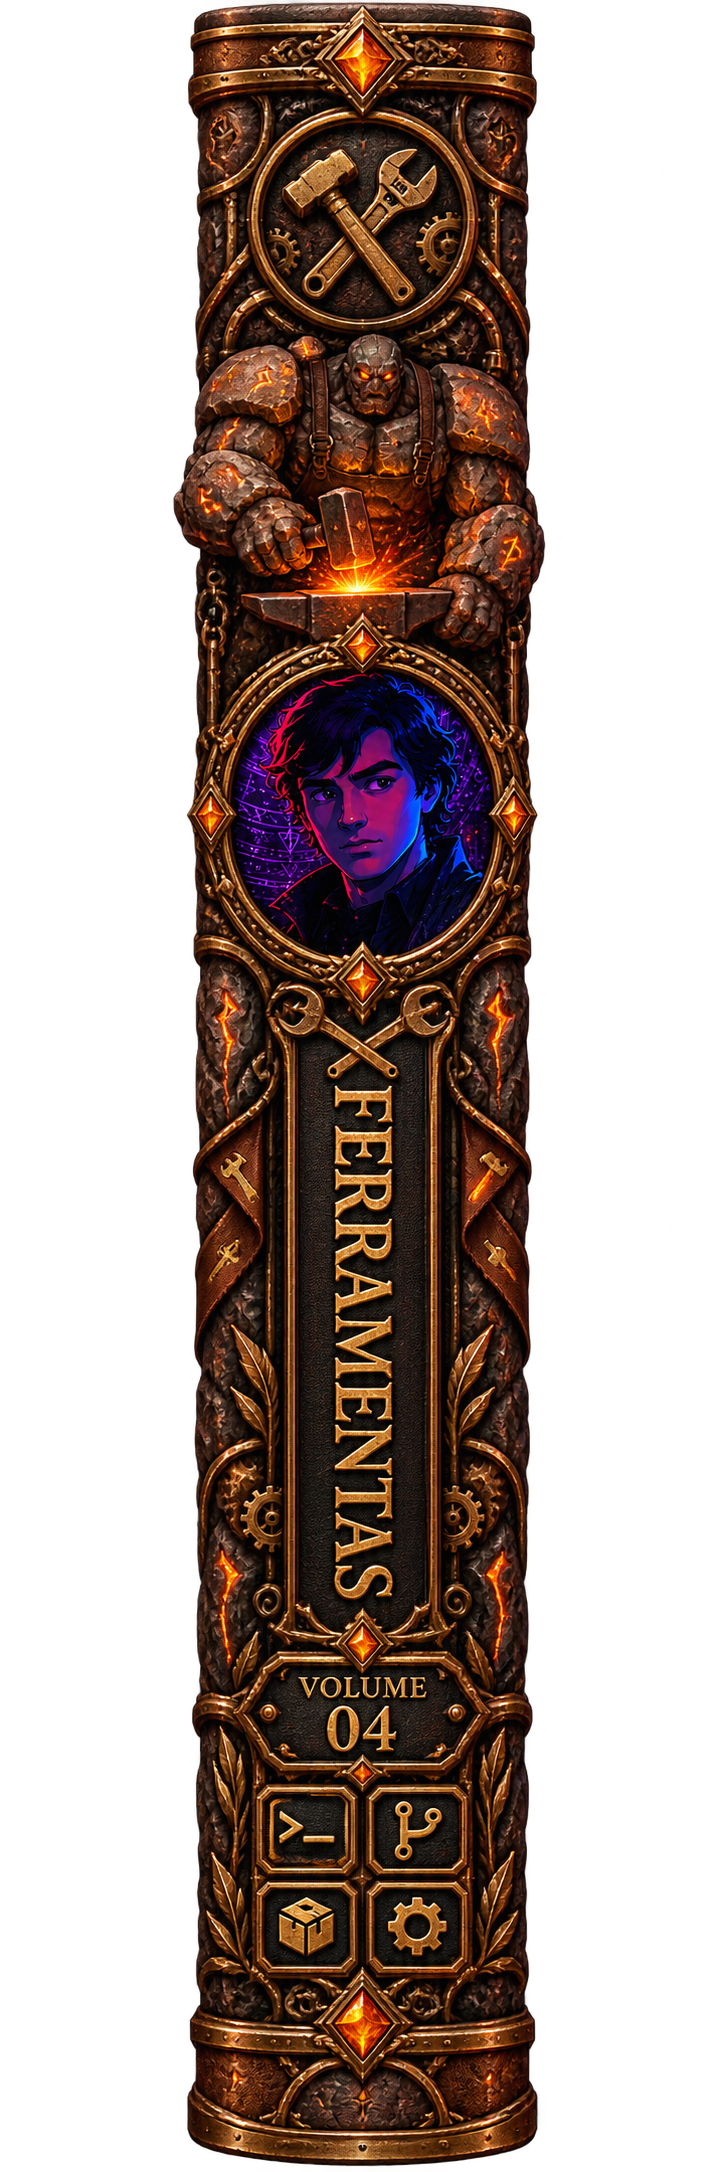
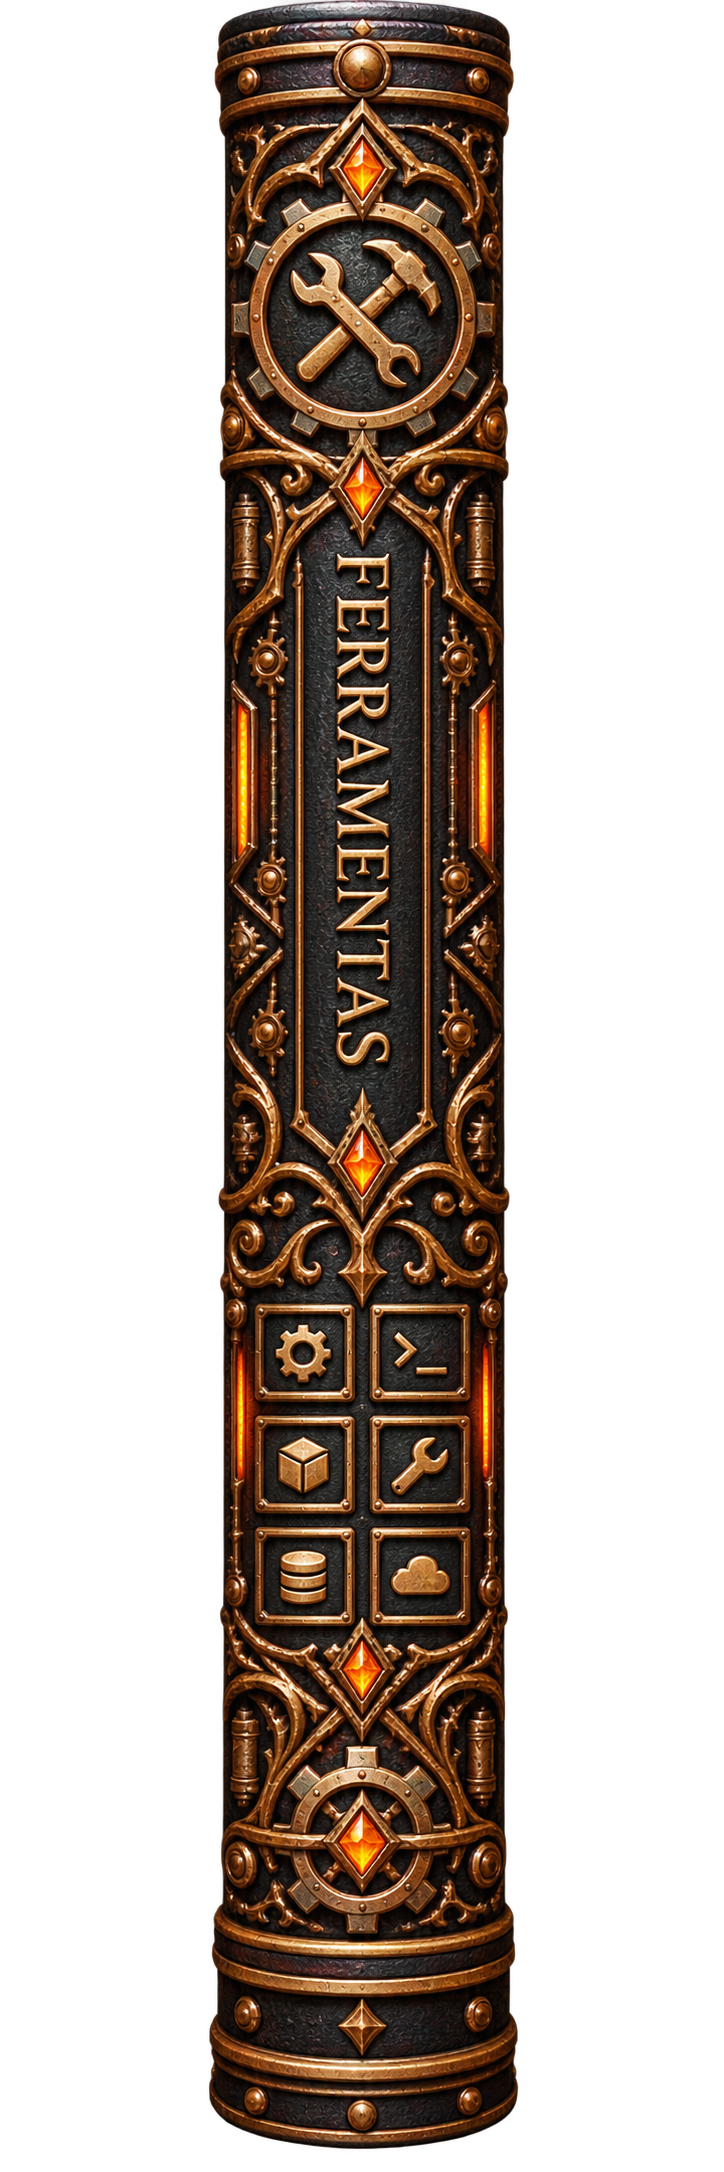
feat adicionando o livro full-stack e refinando a estante de grimórios
Novas artes das capas (front, back, dados, ferramentas, fullstack) e ajustes
visuais na spell-library; seção Sobre reescrita como author-section.

diff --git a/assets/css/about-author.css b/assets/css/about-author.css
@@ -1,0 +1,108 @@
+/* Composição editorial exclusiva de Sobre; preserva os links para #sobre-mim. */
+.author-transition,
+#sobre-mim.author-section { --author-background: #09070d; }
+.author-transition {
+  --transition-height: clamp(180px, 16vw, 240px);
+  position: relative;
+  z-index: 1;
+  height: var(--transition-height);
+  margin-top: calc(-1 * var(--transition-height));
+  pointer-events: none;
+  background:
+    linear-gradient(to bottom, transparent 0%, rgba(9, 7, 13, .2) 25%, rgba(9, 7, 13, .7) 65%, var(--author-background) 100%),
+    radial-gradient(ellipse at 27% 65%, rgba(86, 68, 142, .05), transparent 65%);
+}
+#sobre-mim.author-section {
+  --author-gold: #c8a663;
+  --author-ink: #d7d1cb;
+  padding: clamp(6.25rem, 9vw, 9rem) clamp(1.25rem, 4vw, 4rem);
+  background: var(--author-background);
+  color: var(--author-ink);
+  scroll-margin-top: 5rem;
+}
+.author-composition {
+  width: min(1280px, 100%);
+  margin-inline: auto;
+  display: grid;
+  grid-template-columns: minmax(0, 1.08fr) minmax(0, 1fr);
+  grid-template-rows: auto auto;
+  column-gap: clamp(2rem, 5vw, 5rem);
+  align-items: start;
+}
+.author-heading { grid-column: 2; grid-row: 1; padding-top: 1rem; }
+.author-chapter {
+  display: block;
+  margin-bottom: 1.1rem;
+  color: var(--author-gold);
+  font: 700 .7rem/1.5 Cinzel, serif;
+  letter-spacing: .3em;
+  text-transform: uppercase;
+}
+.author-heading h2 {
+  margin: 0;
+  color: #d9bd78;
+  font: 700 clamp(1.8rem, 3vw, 2.8rem)/1.2 Cinzel, serif;
+  letter-spacing: .06em;
+  text-transform: uppercase;
+}
+.author-ornament { display: flex; align-items: center; gap: .75rem; margin: 1.35rem 0 2rem; color: var(--author-gold); font-size: .8rem; opacity: .65; }
+.author-ornament span { width: 4.5rem; height: 1px; background: currentColor; }
+.author-ornament span:last-child { width: 2rem; }
+.author-art { grid-column: 1; grid-row: 1 / 3; align-self: center; min-width: 0; margin: 0; position: relative; }
+.author-art-blend {
+  overflow: hidden;
+  -webkit-mask-image: radial-gradient(ellipse at 50% 47%, #000 42%, rgba(0,0,0,.9) 58%, transparent 74%);
+  mask-image: radial-gradient(ellipse at 50% 47%, #000 42%, rgba(0,0,0,.9) 58%, transparent 74%);
+}
+.author-art img { display: block; width: 100%; height: auto; object-fit: contain; }
+.author-art-motion { transform: none; }
+@media (min-width: 901px) and (hover: hover) and (pointer: fine) and (prefers-reduced-motion: no-preference) {
+  .author-art-motion {
+    transform: translate3d(var(--parallax-x, 0px), var(--parallax-y, 0px), 0) scale(var(--parallax-scale, 1));
+    transition: transform 550ms ease-out, filter 350ms ease;
+  }
+  .author-art-blend.is-parallax-active { --parallax-scale: 1.012; }
+  .author-art-blend.is-parallax-active .author-art-motion {
+    filter: brightness(1.02);
+    transition-duration: 250ms, 350ms;
+  }
+}
+.author-art figcaption {
+  position: relative;
+  padding-left: 3rem;
+  margin: 1.35rem 0 0 8%;
+  color: #bda371;
+  font: 700 .72rem/1.8 Cinzel, serif;
+  letter-spacing: .17em;
+  text-transform: uppercase;
+}
+.author-art figcaption > span { position: absolute; left: 0; top: .6rem; width: 2rem; height: 1px; background: currentColor; opacity: .6; }
+.author-copy { grid-column: 2; grid-row: 2; min-width: 0; max-width: 65ch; }
+.author-copy p { margin: 0 0 1.3rem; font: 400 clamp(.98rem, 1.15vw, 1.08rem)/1.8 Lora, serif; color: var(--author-ink); }
+.author-journey { display: inline-flex; align-items: center; gap: 1rem; margin-top: 1.15rem; padding-block: .65rem; color: #d1c1a2; font: 400 .95rem/1.5 Lora, serif; text-decoration: none; transition: color 300ms ease; }
+.author-arrow { position: relative; width: 2rem; height: 1px; background: currentColor; transition: width 300ms ease, transform 300ms ease; }
+.author-arrow::after { content: ''; position: absolute; right: 0; top: -3px; width: 7px; height: 7px; border-top: 1px solid; border-right: 1px solid; transform: rotate(45deg); }
+.author-journey:hover { color: var(--author-gold); }
+.author-journey:hover .author-arrow { width: 2.5rem; transform: translateX(4px); }
+.author-journey:focus-visible { outline: 2px solid var(--author-gold); outline-offset: 6px; }
+@media (prefers-reduced-motion: no-preference) {
+  .author-section.is-entering [data-author-reveal] { opacity: 0; transform: translateY(15px); }
+  .author-section.is-entering .author-art { transform: translateX(-20px); }
+  .author-section [data-author-reveal] { transition: opacity 550ms ease, transform 550ms ease; }
+  .author-heading { transition-delay: 60ms !important; }
+  .author-copy { transition-delay: 120ms !important; }
+}
+@media (max-width: 900px) {
+  .author-transition { --transition-height: clamp(120px, 20vw, 170px); }
+  #sobre-mim.author-section { padding-block: 5rem; }
+  .author-composition { width: min(640px, 100%); grid-template-columns: minmax(0, 1fr); gap: 0; }
+  .author-heading { grid-column: 1; grid-row: 1; padding: 0; }
+  .author-art { grid-column: 1; grid-row: 2; margin: .25rem -0.5rem 2.75rem; }
+  .author-copy { grid-column: 1; grid-row: 3; }
+  .author-art figcaption { margin-top: .75rem; }
+  .author-heading h2 { font-size: clamp(1.8rem, 5vw, 2.5rem); }
+  .author-ornament { margin-bottom: 1rem; }
+}
+@media (prefers-reduced-motion: reduce) {
+  .author-section [data-author-reveal], .author-art img, .author-art-motion, .author-journey, .author-arrow { opacity: 1; transform: none !important; transition: none !important; animation: none !important; }
+}

diff --git a/index.html b/index.html
@@ -14,6 +14,7 @@
     rel="stylesheet">
   <link rel="stylesheet" href="assets/css/animacoes.css">
   <link rel="stylesheet" href="assets/css/legacy-book.css">
+  <link rel="stylesheet" href="assets/css/about-author.css">
 </head>
 
 <body>
@@ -81,59 +82,34 @@
 
   </section>
   
-  <!-- Sessão Sobre o Personagem -->
-  <section id="sobre-mim" class="about-chapter" aria-labelledby="about-title">
-    <div class="about-aura" aria-hidden="true"></div>
-    <div class="about-container">
-      <header class="about-heading">
-        <span class="about-chapter-label">Capítulo I</span>
-        <h2 id="about-title">Sobre o Personagem</h2>
-        <p>Conheça o dev por trás da magia.</p>
+  <!-- Sobre: o autor por trás dos legados -->
+  <div class="author-transition" aria-hidden="true"></div>
+  <section id="sobre-mim" class="author-section" aria-labelledby="about-title">
+    <div class="author-composition">
+      <header class="author-heading" data-author-reveal>
+        <span class="author-chapter">Capítulo I</span>
+        <h2 id="about-title">Minha Origem</h2>
+        <div class="author-ornament" aria-hidden="true"><span></span>◇<span></span></div>
       </header>
-
-      <div class="about-story">
-        <figure class="about-portrait">
-          <img src="assets/img/user/foto_perfil.png" alt="Retrato de Marcos Simões">
-          <span class="portrait-caption">O homem por trás do grimório</span>
-        </figure>
-
-        <article class="about-narrative">
-          <h3>Minha Origem</h3>
-          <div class="narrative-divider" aria-hidden="true"><span></span></div>
-          <p>Minha jornada começou pela curiosidade de entender como ideias poderiam se transformar em experiências digitais.</p>
-          <p>Com o tempo, projetos, ensino e liderança passaram a fazer parte desse caminho — conectando criação, troca de conhecimento e a busca constante por novos desafios.</p>
-        </article>
-      </div>
-
-      <div class="about-motivation">
-        <div class="motivation-heading"><span></span><h3>O que move a jornada</h3><span></span></div>
-        <div class="motivation-grid">
-          <article class="motivation-item"><span class="pillar-number">01</span><span class="pillar-rune" aria-hidden="true">◆</span><h4>Criar</h4><i></i><p>Transformar ideias em interfaces e experiências que realmente ganham vida.</p></article>
-          <article class="motivation-item"><span class="pillar-number">02</span><span class="pillar-rune" aria-hidden="true">◆</span><h4>Compartilhar</h4><i></i><p>Ensinar aquilo que aprendo e crescer através da troca com outras pessoas.</p></article>
-          <article class="motivation-item"><span class="pillar-number">03</span><span class="pillar-rune" aria-hidden="true">◆</span><h4>Evoluir</h4><i></i><p>Buscar desafios que me tirem do confortável e ampliem aquilo que sou capaz de construir.</p></article>
+      <figure class="author-art" data-author-reveal>
+        <!-- Arte local provisória. Nova arte: assets/about/about-author.webp (ver assets/about/README.md). -->
+        <div class="author-art-blend" data-author-parallax>
+          <div class="author-art-motion">
+          <img src="assets/img/user/foto_perfil.png"
+            alt="Ilustração do desenvolvedor com notebook em um ambiente inspirado em um grimório"
+            width="1672" height="941" loading="lazy" decoding="async">
+          </div>
         </div>
+        <figcaption><span aria-hidden="true"></span>O autor por trás<br>dos legados</figcaption>
+      </figure>
+      <div class="author-copy" data-author-reveal>
+        <p>Sempre fui movido pela curiosidade de entender como as coisas funcionam — e, principalmente, como poderiam funcionar melhor.</p>
+        <p>Hoje transformo essa curiosidade em interfaces e experiências digitais, unindo desenvolvimento Front-End, design e a bagagem que construí trabalhando com projetos, ensino e liderança.</p>
+        <p>Este portfólio é o reflexo dessa mistura entre código, criação e visão de produto.</p>
+        <a class="author-journey" href="#jornada">Explorar minha jornada<span class="author-arrow" aria-hidden="true"></span></a>
       </div>
-
-      <div class="traveler-traits" aria-labelledby="traits-title">
-        <div class="motivation-heading"><span></span><h3 id="traits-title">Traços do Viajante</h3><span></span></div>
-        <ul>
-          <li><span aria-hidden="true">◇</span>Curiosidade</li>
-          <li><span aria-hidden="true">◇</span>Criatividade</li>
-          <li><span aria-hidden="true">◇</span>Liderança</li>
-          <li><span aria-hidden="true">◇</span>Aprendizado</li>
-        </ul>
-      </div>
-
-      <a class="journey-marker" href="#legados" aria-label="Ir para o Salão dos Legados">
-        <span class="journey-gem" aria-hidden="true">◇</span>
-        <i aria-hidden="true"></i>
-        <strong>Início da<br>Jornada</strong>
-        <i aria-hidden="true"></i>
-        <span class="journey-arrow" aria-hidden="true">▼</span>
-      </a>
     </div>
   </section>
-
   <!-- Conteúdo anterior preservado, fora da apresentação -->
   <section class="sobre-legado" hidden aria-hidden="true">
 
@@ -643,6 +619,7 @@
     <script src="assets/js/data/legacyProjects.js"></script>
     <script src="assets/js/legacy/legacyBook.js"></script>
     <script src="assets/js/script.js"></script>
+    <script src="assets/js/about-author.js"></script>
 
 </body>
 

diff --git a/assets/js/about-author.js b/assets/js/about-author.js
@@ -1,0 +1,74 @@
+// Aprimoramento progressivo: sem JavaScript, a seção permanece visível.
+(() => {
+  const section = document.querySelector('.author-section');
+  const reducedMotion = window.matchMedia('(prefers-reduced-motion: reduce)');
+  if (!section || reducedMotion.matches || !('IntersectionObserver' in window)) return;
+  const observer = new IntersectionObserver(entries => {
+    if (!entries.some(entry => entry.isIntersecting)) return;
+    section.classList.remove('is-entering');
+    observer.disconnect();
+  }, { threshold: 0.12 });
+  section.classList.add('is-entering');
+  observer.observe(section);
+  reducedMotion.addEventListener('change', event => {
+    if (!event.matches) return;
+    section.classList.remove('is-entering');
+    observer.disconnect();
+  });
+})();
+
+// A máscara fica imóvel; o wrapper interno pode receber camadas no futuro.
+(() => {
+  const viewport = document.querySelector('[data-author-parallax]');
+  if (!viewport) return;
+  const enabled = window.matchMedia('(min-width: 901px) and (hover: hover) and (pointer: fine) and (prefers-reduced-motion: no-preference)');
+  const maxOffset = 5;
+  let listeners;
+  let bounds;
+  let frame = 0;
+  let x = 0;
+  let y = 0;
+
+  function reset() {
+    cancelAnimationFrame(frame);
+    frame = 0;
+    bounds = null;
+    viewport.classList.remove('is-parallax-active');
+    viewport.style.removeProperty('--parallax-x');
+    viewport.style.removeProperty('--parallax-y');
+  }
+
+  function move(event) {
+    if (event.pointerType !== 'mouse') return;
+    bounds ||= viewport.getBoundingClientRect();
+    if (!bounds.width || !bounds.height) return;
+    const normalize = value => Math.max(-1, Math.min(1, value));
+    x = normalize((event.clientX - bounds.left) / bounds.width * 2 - 1);
+    y = normalize((event.clientY - bounds.top) / bounds.height * 2 - 1);
+    viewport.classList.add('is-parallax-active');
+    if (frame) return;
+    frame = requestAnimationFrame(() => {
+      viewport.style.setProperty('--parallax-x', `${(x * maxOffset).toFixed(2)}px`);
+      viewport.style.setProperty('--parallax-y', `${(y * maxOffset).toFixed(2)}px`);
+      frame = 0;
+    });
+  }
+
+  function configure() {
+    listeners?.abort();
+    reset();
+    if (!enabled.matches) return;
+    listeners = new AbortController();
+    const options = { signal: listeners.signal, passive: true };
+    viewport.addEventListener('pointerenter', move, options);
+    viewport.addEventListener('pointermove', move, options);
+    viewport.addEventListener('pointerleave', reset, options);
+    viewport.addEventListener('pointercancel', reset, options);
+    window.addEventListener('scroll', reset, options);
+    window.addEventListener('resize', reset, options);
+    window.addEventListener('blur', reset, options);
+    document.addEventListener('visibilitychange', reset, options);
+  }
+  enabled.addEventListener('change', configure);
+  configure();
+})();

diff --git a/assets/js/script.js b/assets/js/script.js
@@ -1201,7 +1201,7 @@ let skillWheelLocked = false;
 
 function renderSpellShelf() {
   if (!spellShelf) return;
-  const coverByDomain = { 'front-end': 'front', 'back-end': 'back', data: 'dados', tools: 'ferramentas' };
+  const coverByDomain = { 'front-end': 'front', 'back-end': 'back', 'full-stack': 'fullstack', data: 'dados', tools: 'ferramentas' };
   // A ordem da estante é independente dos dados: Full-Stack permanece no trono central.
   const shelfDomains = ['front-end', 'back-end', 'full-stack', 'data', 'tools']
     .map(id => skillGroups[id]);
@@ -1210,7 +1210,6 @@ function renderSpellShelf() {
       ${coverByDomain[domain.id]
         ? `<img src="./assets/img/arcenal/${coverByDomain[domain.id]}.png" alt="Capa do grimório ${domain.title}" draggable="false">`
         : `<span class="spell-book__cover" aria-hidden="true"><i>${domain.rune}</i><strong>${domain.title}</strong><small>Volume 05</small></span>`}
-      <span class="spell-book__label" aria-hidden="true">${domain.title}<small>Volume ${String(index + 1).padStart(2, '0')}</small></span>
     </button>`).join('');
 }
 
@@ -1418,7 +1417,7 @@ function renderSpellGrimoire(focusTarget = null, isCategorySwitch = false) {
       <button class="skill-panel__close skill-carousel-modal__close" type="button" aria-label="Fechar tecnologias de ${activeSkillGroup.title}">
         <span aria-hidden="true">×</span>
       </button>
-      <header class="skill-panel__header skill-carousel-modal__header">
+      <header class="skill-panel__header skill-carousel-modal__header visually-hidden">
         <h3 id="skill-panel-title">◇ ${activeSkillGroup.title} ◇</h3>
       </header>
       <div class="skill-carousel-modal__body">

diff --git a/assets/css/style.css b/assets/css/style.css
@@ -14735,3 +14735,39 @@ button.corridor-relic-frame {
   .skill-carousel-modal--closing { animation-duration: 1ms !important; }
   .skill-carousel__item { transition-duration: 1ms; }
 }
+
+/* Capas com suas cores originais em repouso, hover e seleção. */
+.spell-library .spell-book,
+.spell-library .spell-book > img {
+  filter: none !important;
+  opacity: 1 !important;
+}
+
+/* Seleção sem véu escuro; o alvo do backdrop mantém o comportamento de fechar. */
+.spell-library .spell-library__backdrop {
+  background: transparent !important;
+  backdrop-filter: none !important;
+}
+.spell-library .spell-book {
+  background: transparent !important;
+  box-shadow: none !important;
+}
+/* As duas metades permanecem dentro da cena, sem deslocar os dedos para fora. */
+.spell-library .spell-library__hands--left,
+.spell-library .spell-library__hands--right {
+  transform: translateY(calc(28% + 90px));
+}
+@media (max-width: 900px) {
+  .spell-library .spell-library__hands--left,
+  .spell-library .spell-library__hands--right { transform: translateY(calc(24% + 65px)); }
+}
+/* Retira a base sombreada que atravessava a capa do volume central. */
+.spell-library .spell-library__dais { display: none; }
+
+/* Respiro entre a base dos livros e o título das tecnologias. */
+.spell-library .spell-grimoire.skill-carousel-modal {
+  margin-top: 48px;
+}
+@media (max-width: 620px) {
+  .spell-library .spell-grimoire.skill-carousel-modal { margin-top: 32px; }
+}

diff --git a/assets/about/README.md b/assets/about/README.md
@@ -1,0 +1,7 @@
+# Arte do autor
+
+A seção `#sobre-mim` usa provisoriamente a ilustração local `assets/img/bannerPrincipalDev.png`, com o avatar e o notebook. A arte específica do quarto ainda não foi fornecida.
+
+Para trocar: coloque `about-author.webp` nesta pasta e altere o `src` da imagem em `.author-art`, no `index.html`, para `assets/about/about-author.webp`. Atualize `width` e `height` para as dimensões reais e o alt para “Ilustração do desenvolvedor trabalhando em seus projetos em um ambiente inspirado em um grimório”.
+
+A imagem mantém sua proporção natural, sem corte. A máscara e as margens estão em `assets/css/about-author.css`. O CTA aponta para `#jornada`, reservado para a futura seção; nenhuma Jornada foi criada neste redesign.
